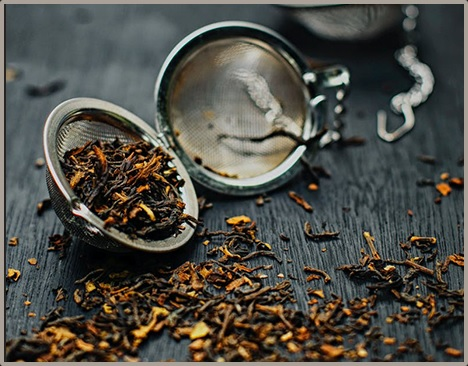
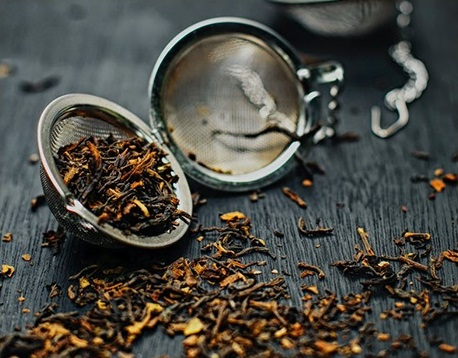
Added basic responsiveness to main content in home

diff --git a/src/components/HomeMain.vue b/src/components/HomeMain.vue
@@ -1,7 +1,7 @@
 <template>
-  <main class="container-fluid main-bg py-5">
+  <main class="container-fluid main-bg py-4">
     <div class="row py-5">
-      <div class="col-xl-5 offset-xl-2 col-12">
+      <div class="col-xl-5 offset-xl-2 col-10 offset-1 mb-5">
         <h1>Impressie</h1>
         <p>
           Lorem ipsum dolor sit amet consectetur adipisicing elit. Ipsum atque
@@ -14,12 +14,12 @@
         <img src="../../non-code/thee1-home.jpg" width="100%" />
       </div>
     </div>
-    <hr class="solid col-xl-8 offset-xl-2 col-12" />
+    <hr class="solid col-xl-8 offset-xl-2 col-10 offset-1" />
     <div class="row py-5">
-      <div class="col-xl-3 offset-xl-2 col-12">
+      <div class="col-xl-3 offset-xl-2 col-10 offset-1 mb-5">
         <img src="../../non-code/thee2-home.jpg" width="100%" />
       </div>
-      <div class="col-xl-5 col-12">
+      <div class="col-xl-5 offset-xl-0 col-10 offset-1">
         <h1>Ons doel</h1>
         <p>
           Lorem ipsum dolor sit amet consectetur adipisicing elit. Asperiores
@@ -57,5 +57,10 @@ hr {
 
 p {
   font-size: 20px;
+}
+
+img {
+  border: solid 3px #aaa199;
+  border-radius: 4px;
 }
 </style>
